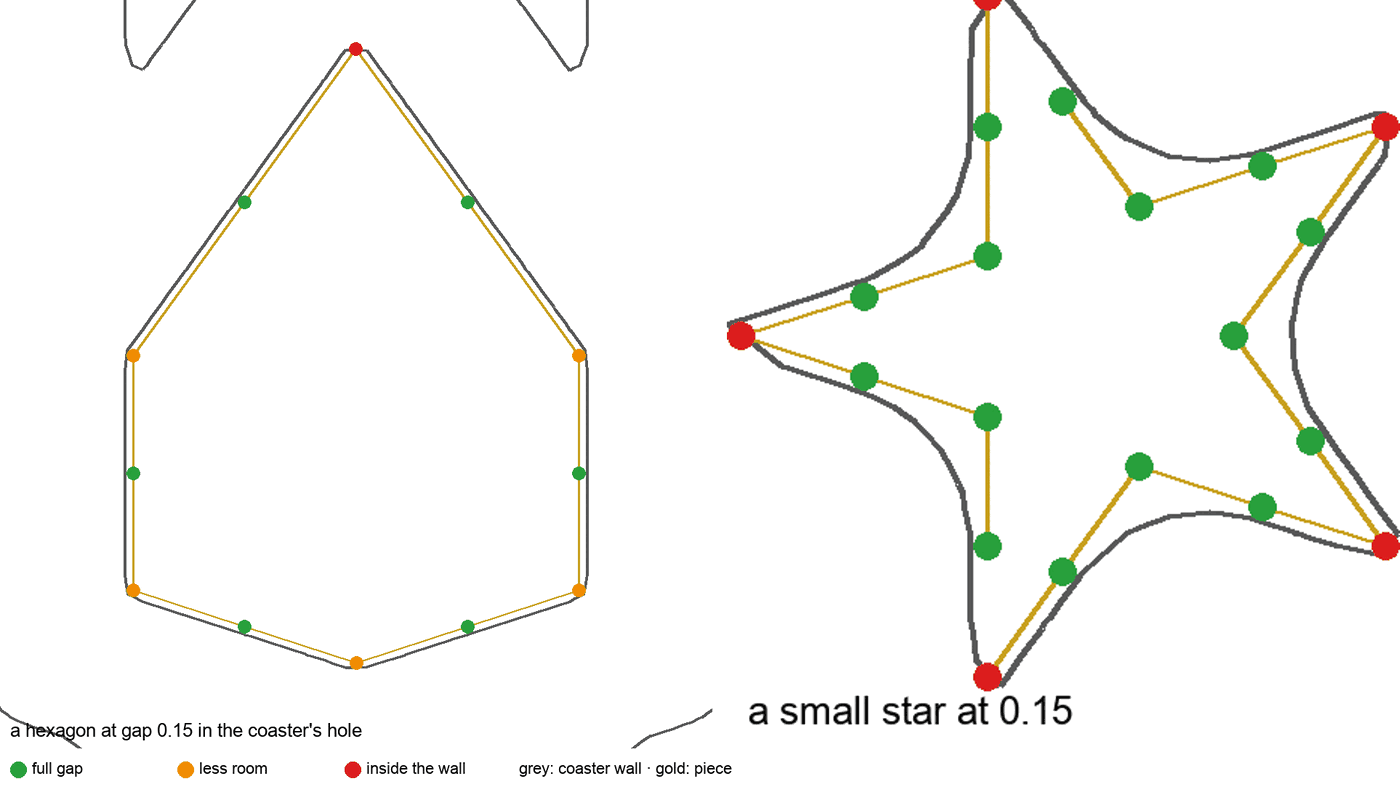
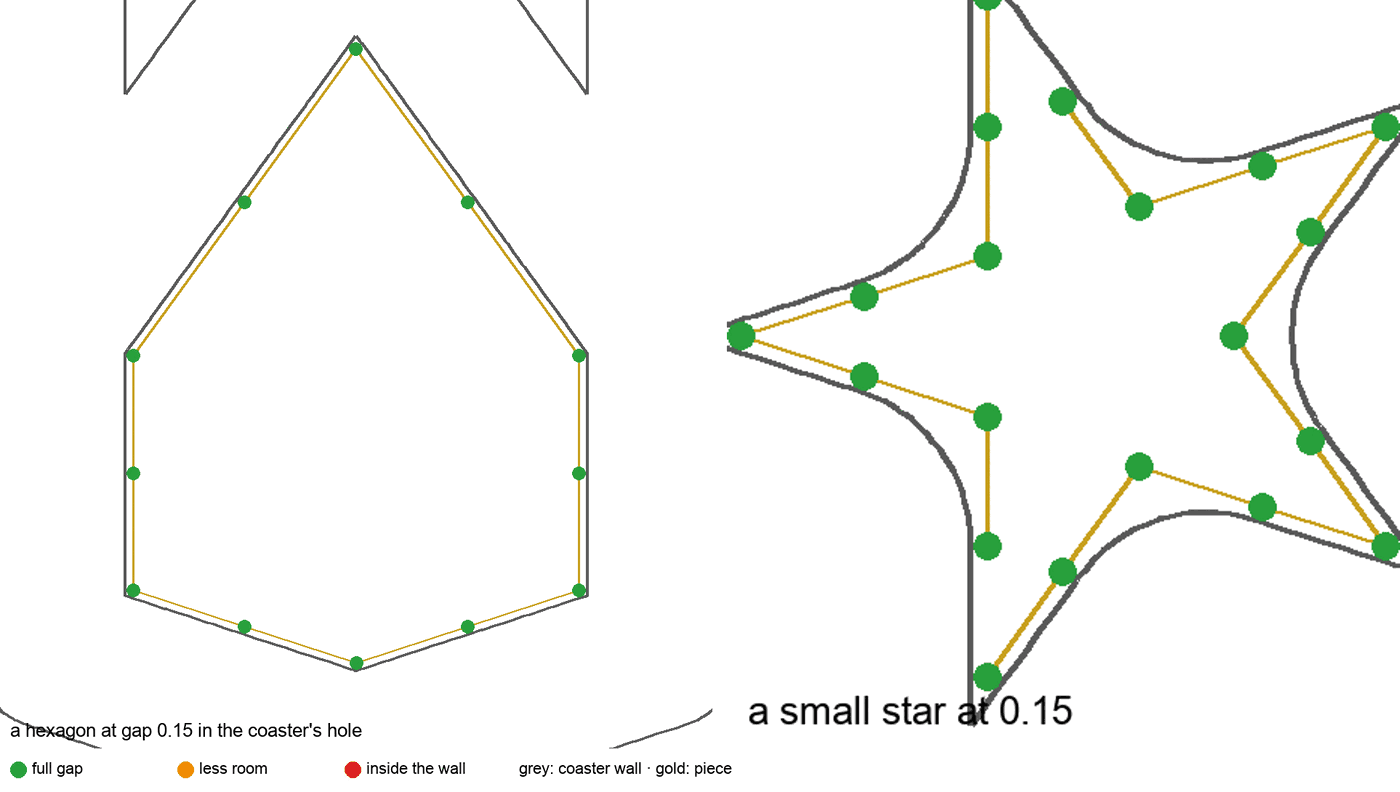
plates: sheets-04 re-sliced on the coaster with exact holes, every piece keeps its gap (#475)
bikar #297 cuts a coaster's strap holes on their exact outline, the
same outline the loose pieces are cut from. Re-sliced sheets-04 on
bikar main (75ae6a6): one bed, 56 minutes, 15 g, no slicer warnings.
Measured every piece corner against the coaster at mid height: GAP 05
+0.050 mm, GAP 10 +0.100, GAP 15 +0.150, GAP 20 +0.200, STAR 15
+0.150, no corner inside a wall. Before, only GAP 20 cleared.

The page's fit section, its picture (all corners at the full gap, the
star tips sharp), the plate header, LP-1 and both backlogs now say so;
the hole fix moves to catalog-expansion's done list and the plates
queue is recomputed. The bed map is unchanged (same layout), so it
stays as it was.

Claude-Session: https://claude.ai/code/session_01ErceEzWXb2nsHFJMatb8Bz

diff --git a/docs/plates/sheets-04.md b/docs/plates/sheets-04.md
@@ -14,7 +14,7 @@ bets:
 unblocks:
   - "loose-pieces call 4: the gap a loose piece gets per face"
   - "the F3 openwork frame (D-090), which follows F1 and reuses the gap this plate settles"
-minutes: 55
+minutes: 56
 grams: 15
 bed_plates: 1
 risk: watch
@@ -31,10 +31,10 @@ and loose pieces for one ring of it at four gaps per face: 0.05, 0.10, 0.15 and 
 five-point stars come at 0.15 only, to see whether their tips catch. It answers
 [loose-pieces call 4](../design/coaster/loose-pieces-design.md#7-open-calls-for-omar) with the gaps that page proposes, read in
 the real coaster rather than a test frame. The pieces come from bikar's `Loose-Fit-Coupon.bkr`
-(bikar #296) and the plate is [`sheets-04.yaml`](sheets-04.yaml). One bed, about 55 minutes and 15 g.
+(bikar #296) and the plate is [`sheets-04.yaml`](sheets-04.yaml). One bed, about 56 minutes and 15 g.
 
-**Measured before printing:** the coaster's holes are smaller than the pockets the pieces were cut
-for, so today only the 0.20 set clears and the star tips catch. See [the fit](#the-fit-in-todays-coaster).
+**Measured before printing:** every piece keeps exactly its gap in the coaster's holes, star tips
+included. See [the fit](#the-fit-in-the-coaster).
 
 ## What it is
 
@@ -54,7 +54,7 @@ labelled with its code, because the sets look alike. The bed map below says whic
 
 Changed 2026-10-02 at Omar's ask: the first version printed the coupon's frame, a 2 mm round slab
 with the straps on it and a pocket in every cell. From above it reads as a plain disk; the real
-coaster is the better test, and it costs less (55 minutes and 15 g, against 56 and 22).
+coaster is the better test, and it takes less filament (15 g against 22, in the same 56 minutes).
 
 ## Why print it
 
@@ -66,30 +66,31 @@ coaster is the better test, and it costs less (55 minutes and 15 g, against 56 a
   ([D-090](../working-model/decisions-log.md#d-090--lines-and-loose-pieces-in-two-colors-true-edges-first)).
 - **What to read off it:** for each bag, drops in / pressed in / will not go; tips catch or not.
 
-## The fit in today's coaster
+## The fit in the coaster
 
-The coaster's holes are not cut on the exact outline the pieces were made for. The coupon's own
-frame leaves every piece its full gap all round. The minimal coaster's hole comes 0.15 to 0.25 mm
-further in at a hexagon's points, and its star holes have blunted tips. So a printed piece meets
-the wall at its corners before the gap it was given.
-
-Measured on the two meshes at mid height, 2026-10-02. Room is the distance from a piece corner to
-the nearest coaster wall; below zero means the corner is inside the wall.
+Every piece keeps exactly the gap it was given, at every corner, so the sheet measures the gap and
+nothing else. Measured on the coaster from bikar main and the pieces at mid height, 2026-10-02.
+Room is the distance from a piece corner to the nearest coaster wall; below zero would mean the
+corner is inside the wall.
 
 | Set | Least room | Corners inside the wall |
 |---|---|---|
-| GAP 05 | −0.20 mm | 48 of 120 |
-| GAP 10 | −0.12 mm | 22 of 120 |
-| GAP 15 | −0.03 mm | 6 of 120 |
-| GAP 20 | +0.05 mm | none |
-| STAR 15 | −0.13 mm | 34 of 200, all at the tips |
+| GAP 05 | +0.050 mm | none of 120 |
+| GAP 10 | +0.100 mm | none of 120 |
+| GAP 15 | +0.150 mm | none of 120 |
+| GAP 20 | +0.200 mm | none of 120 |
+| STAR 15 | +0.150 mm | none of 200 |
 
-![A hexagon at 0.15 and a star at 0.15 in the coaster's holes, corners marked by room](sheets-04-media/fit-in-coaster.png)
+![A hexagon at 0.15 and a star at 0.15 in the coaster's holes, every corner at its full gap](sheets-04-media/fit-in-coaster.png)
 
-Printed as it is, the sheet would mostly measure this mismatch, not the gap. The fix is in bikar:
-cut the coaster's holes on the same outline as the pockets, so a piece fits the real coaster by
-construction. After it, the plate gets re-sliced and re-measured, and every corner should keep its
-full gap. That fix is the next piece of work, before this prints.
+It did not start that way. The first slice of this plate traced the coaster's holes on a grid,
+and a wall drawn between two grid points cuts straight across a sharp corner. The holes came up
+to 0.25 mm further in at a hexagon's points and blunted the star tips, so only GAP 20 cleared:
+GAP 05 had 48 of its 120 corners inside the wall, GAP 10 had 22, GAP 15 had 6, and the stars 34
+of 200, all at the tips. Printed that way, the sheet would have measured the mismatch, not the
+gap. bikar #297 now cuts each hole on its exact outline, the face moved in by half a strap, the
+same outline the pieces are cut from. A piece fits the real coaster by construction, and a test
+in bikar reads every corner so the holes cannot drift back.
 
 ## Pictures
 
@@ -109,7 +110,7 @@ the loosest gap, 0.20.
 
 ## Cost and risk
 
-One bed, 55 minutes, about 15 g (local slice of the plate, 2026-10-02, X2D preset and PLA Basic, no
+One bed, 56 minutes, about 15 g (local slice of the plate, 2026-10-02, X2D preset and PLA Basic, no
 slicer warnings, nothing sent).
 
 **Risk: watch.** The pieces are the smallest things we would have printed, and a small piece that
@@ -118,8 +119,8 @@ layer watched; if that is a no, the pieces stay off the plate (loose-pieces §3.
 
 ## How it was built
 
-- The coaster: bikar's `gBV_JTt3Kxk-minimal-coaster.bkr` (CS-13), unchanged. It passes the mesh
-  check: one closed body, 10.8 cm³.
+- The coaster: bikar's `gBV_JTt3Kxk-minimal-coaster.bkr` (CS-13), unchanged; since bikar #297 its
+  holes are cut on their exact outline. It passes the mesh check: one closed body, 10.7 cm³.
 - The pieces: bikar's `Loose-Fit-Coupon.bkr` (bikar #296) copies the gBV construction unchanged and
   keeps its size and strap, so the gap is read on the pieces the gBV coaster will have. It stands
   on the loose-piece output of bikar #292, whose pocket walls follow the outline exactly: the gap
@@ -149,3 +150,4 @@ Notes:
 | 2026-10-01 | proposed — designed as a sampler sheet; waits on the build listed above | the [sampler sheets design](../design/coaster/sampler-sheets-design.md) |
 | 2026-10-01 | sliced — the file landed (bikar #296); local slice fits one bed, 56 minutes, 22 g, with a bed map | this page |
 | 2026-10-02 | sliced — reworked at Omar's ask, the minimal coaster in place of the frame; 55 minutes, 15 g; the holes measured smaller than the pockets, only GAP 20 clears | this page |
+| 2026-10-02 | sliced — re-sliced on the coaster with exact holes (bikar #297); every set keeps its full gap; 56 minutes, 15 g | this page |

diff --git a/docs/tasks/catalog-expansion/done.md b/docs/tasks/catalog-expansion/done.md
@@ -2,6 +2,7 @@
 
 Newest first: date, what shipped, PR. Backlog: [`backlog.md`](backlog.md).
 
+- 2026-10-02 — A coaster's strap holes are cut on their exact outline, the face moved in by half a strap, sharp at every corner, the same outline the loose pieces are cut from. The traced holes had cut straight across each sharp corner: with the gBV pieces at gap 0.05, 220 of 280 corners were short of the gap, the worst 0.45 mm inside the strap; now none are. Ten coasters with strap holes changed their mesh and all pass the mesh check, and the color split cuts the same holes (bikar #297). sheets-04 is re-sliced on it, 56 minutes and 15 g, and every set keeps exactly its gap: +0.050, +0.100, +0.150 and +0.200 mm, the stars +0.150, where before only GAP 20 cleared
 - 2026-10-01 — Sheet 1's row A, today's staircase edge: three 30 mm windows of the old edge (CS-1, CS-2, gBV) rendered once at the commit before the true edges with the window cut copied onto it, kept in `src/Samplers/sheets-01-row-a/` with the patch, the steps and their hashes; a rebuild came out byte for byte the same. `bambu slice sheet` takes a kept STL as a cell and refuses one whose hash has changed, and `print_review.py edge` draws the bottom faces close up, where A's 0.4 mm steps and pinholes show beside B's straight walls. Sheet 1 is built in full and slices to one bed, 1 h 48 m and 46 g; its page waits on Omar's tick (3d-models #471)
 - 2026-10-01 — The sampler sheet's card and plate (sampler sheets §5 steps 3 and 4): `Sampler-Cards.bkr` is the labeled card, 138 × 122 × 1.4 mm with every code engraved and none on a sample (bikar #294), and `bambu slice sheet` stands each 30 mm window on its cell as one object, refusing a sample off the card or touching another, judged per sample and per pair. Sheet 1's rows B and C on CS-1, CS-2 and gBV assemble and slice clean headless; row A, today's staircase edge, is still to build, so the sheet is not for printing yet (3d-models #470)
 - 2026-10-01 — The window cut for the sampler sheets (sampler sheets §2): `--window <side>[@<x>,<y>]` cuts a square sample out of a finished coaster at its own scale, so a 30 mm window of a 90 mm coaster keeps its 3 mm straps; a window re-fitted to its own side fails the same test, and a window holding the whole coaster gives the same mesh vertex for vertex. A strap the cut detaches is dropped and named; joins, twist, a bottom edge, loose pieces and fins thinner than the floor are refused. Tried with the mesh check on CS-1, CS-2 and gBV, on gBV at round 1.5, and on the CS-2 fill coaster, where it also splits into color parts (bikar #293)

diff --git a/docs/tasks/catalog-expansion/backlog.md b/docs/tasks/catalog-expansion/backlog.md
@@ -345,15 +345,11 @@ the queue of screened candidates grown, each with a written GO or NO-GO.
    sheet plate (`bambu slice sheet`, one color) shipped the same day too, and sheet 1 is built in
    full ([`sheets-01.yaml`](../../plates/sheets-01.yaml), waiting on Omar's tick). Sheet 4 is built
    in full too: its file is bikar's `Loose-Fit-Coupon.bkr` (#296) and its plate
-   [`sheets-04.yaml`](../../plates/sheets-04.yaml) slices to one bed, 55 minutes, 15 g, with a bed
+   [`sheets-04.yaml`](../../plates/sheets-04.yaml) slices to one bed, 56 minutes, 15 g, with a bed
    map naming each look-alike set. Since 2026-10-02 it prints the pieces in the real minimal
-   coaster (Omar's ask) rather than the coupon's frame, and that showed the coaster's holes are
-   0.15 to 0.25 mm tighter at the corners than the pockets the pieces were cut for (only GAP 20
-   clears). It waits on Omar's tick and his yes to failure detection, and should not print before
-   the next item fixes the holes.
-   **Next: cut a coaster's strap holes on the pocket outline** in the bikar kernel, so loose
-   pieces fit the real coaster by construction; then re-slice sheets-04 and re-measure (every
-   corner should keep its full gap). Found 2026-10-02 reworking sheets-04.
+   coaster (Omar's ask) rather than the coupon's frame. The coaster's holes are now cut on the
+   pieces' exact outline (bikar #297), so every set keeps its full gap. It waits on Omar's tick and his
+   yes to failure detection.
    What is left: sheets 2 and 3 need smooth-lines options 5 and 8 and their card pieces; sheet 5 the
    sheet plate's color parts per sample; sheet 5's tall-piece row a piece-height option and its raised row raised fills
    (loose-pieces §6 item 1, a bikar branch is enough). Each sheet already has a plate page

diff --git a/.claude/skills/prototype/catalog.md b/.claude/skills/prototype/catalog.md
@@ -1849,13 +1849,13 @@ re-renders each size from its `size` param (never mesh-scaled — plan D-D) and
 ## LP-1 — Loose-piece fit on gBV (sampler sheet 4)
 
 - **Status**: planned — the plate [sheets-04](../../../docs/plates/sheets-04.md) is sliced (one bed,
-  55 min, 15 g) and waits on Omar's tick and his yes to failure detection on (loose-pieces design §3.7).
+  56 min, 15 g) and waits on Omar's tick and his yes to failure detection on (loose-pieces design §3.7).
   Since 2026-10-02 (Omar's ask) it prints the pieces in the real gBV minimal coaster (CS-13,
-  `gBV_JTt3Kxk-minimal-coaster.bkr`, 4 mm, no base) rather than this file's `Frame`. Measured on the
-  meshes, that coaster's holes come 0.15 to 0.25 mm further in at the piece corners than the
-  `Frame` pockets do: least room −0.20 mm at GAP 05, −0.12 at 10, −0.03 at 15, +0.05 at 20, and
-  −0.13 at the star tips. Until bikar cuts the coaster's holes on the pocket outline, only GAP 20
-  clears there.
+  `gBV_JTt3Kxk-minimal-coaster.bkr`, 4 mm, no base) rather than this file's `Frame`. Since bikar
+  #297 that coaster's holes are cut on the same exact outline as the `Frame` pockets, so every
+  piece keeps exactly its gap there: least room +0.050 mm at GAP 05, +0.100 at 10, +0.150 at 15,
+  +0.200 at 20 and +0.150 at the star tips, no corner inside a wall. Before #297 the traced holes
+  cut the sharp corners and only GAP 20 cleared.
 - **Model**: `bikar/patterns/Coupons/Loose-Fit-Coupon.bkr` — the gBV coaster (CS-13) as the
   backed frame of the [loose-pieces design](../../../docs/design/coaster/loose-pieces-design.md)
   (F1: a solid slab, the straps standing on it, a pocket in every cell), with two rings as loose

diff --git a/docs/tasks/coaster-pipeline/backlog.md b/docs/tasks/coaster-pipeline/backlog.md
@@ -41,9 +41,9 @@ Sending a print and which filament to load.
 - **The sampler sheets, [sheets-01](../../plates/sheets-01.md) to
   [sheets-05](../../plates/sheets-05.md)** — sheets-01 (edge and top) is built in full and waits
   on Omar's tick: one bed, about 1 h 48 m and 46 g. sheets-04 (the gBV fit) is built too and waits
-  on his tick and his yes to failure detection and a watched first layer: one bed, 55 minutes,
-  15 g, the pieces in the real minimal coaster; it holds for a bikar fix to the coaster's holes
-  (catalog-expansion item 8). The other three are at `planned`, with no recipe, slice or tick box yet. Each of their
+  on his tick and his yes to failure detection and a watched first layer: one bed, 56 minutes,
+  15 g, the pieces in the real minimal coaster, every set at its full gap since bikar #297 cut
+  the coaster's holes on their exact outline. The other three are at `planned`, with no recipe, slice or tick box yet. Each of their
   pages lists what it waits on (the builds are catalog-expansion item 8). Their order by value is
   computed on [the plates page](../../plates/README.md), not kept here. Prints are held for last.
 - **Did [minis-01](../../plates/minis-01.md) and [minis-02](../../plates/minis-02.md) print?**

diff --git a/docs/plates/README.md b/docs/plates/README.md
@@ -17,7 +17,7 @@ Written by `python3 .claude/gates/plates_gate.py --write` from the plate pages a
 
 | # | Plate | Stage | Value | Hours | ROI | Risk | What it answers |
 |---|---|---|---|---|---|---|---|
-| 1 | [sheets-04](sheets-04.md) | waiting | 10 | 1.1 | 9.38 | watch | Which gap per face lets a loose gBV piece drop into its pocket and stay, and do the small five-point stars catch at 0.15? |
+| 1 | [sheets-04](sheets-04.md) | waiting | 10 | 1.1 | 9.23 | watch | Which gap per face lets a loose gBV piece drop into its pocket and stay, and do the small five-point stars catch at 0.15? |
 | 2 | [sheets-01](sheets-01.md) | waiting | 6 | 2.3 | 2.65 | ok | Do the 0.4 mm steps on today's coaster edges show in the hand, and which top (round 1 or the full dome) looks right? |
 | 3 | [minis-06](minis-06.md) | waiting | 8 | 3.8 | 2.11 | ok | How thin can the dovetail band go, and does the new slot fix minis-04's tight pegs? |
 | 4 | [minis-05](minis-05.md) | waiting | 10 | 5.8 | 1.72 | watch | Which thin join holds a pair together best, the butterfly key or the built-in tab? |

diff --git a/.claude/skills/maintain-use-cases/use-cases.md b/.claude/skills/maintain-use-cases/use-cases.md
@@ -2,8 +2,8 @@
 name: use-cases
 description: Actor / use-case map for the whole 3d-models experience, with hash-pinned code pointers validated by the pre-commit hook
 as_of:
-  3d-models: 15528e4ff88a88657de070b996f1bf26dc5dca77
-  bikar: 88126a5481d65392afb8f35ff2305f6caf7db361
+  3d-models: 01c60ce883fb1e71ccab7e5055e79af9753937dd
+  bikar: 75ae6a638c241287fe64ce546909f82eb19d9045
   qiyas: 5cd8635c4e56ecd89572e6772878ee09125c9d79
   youtube: 57574743e4faced18011be26009b6cd82aba2970
 repos:
